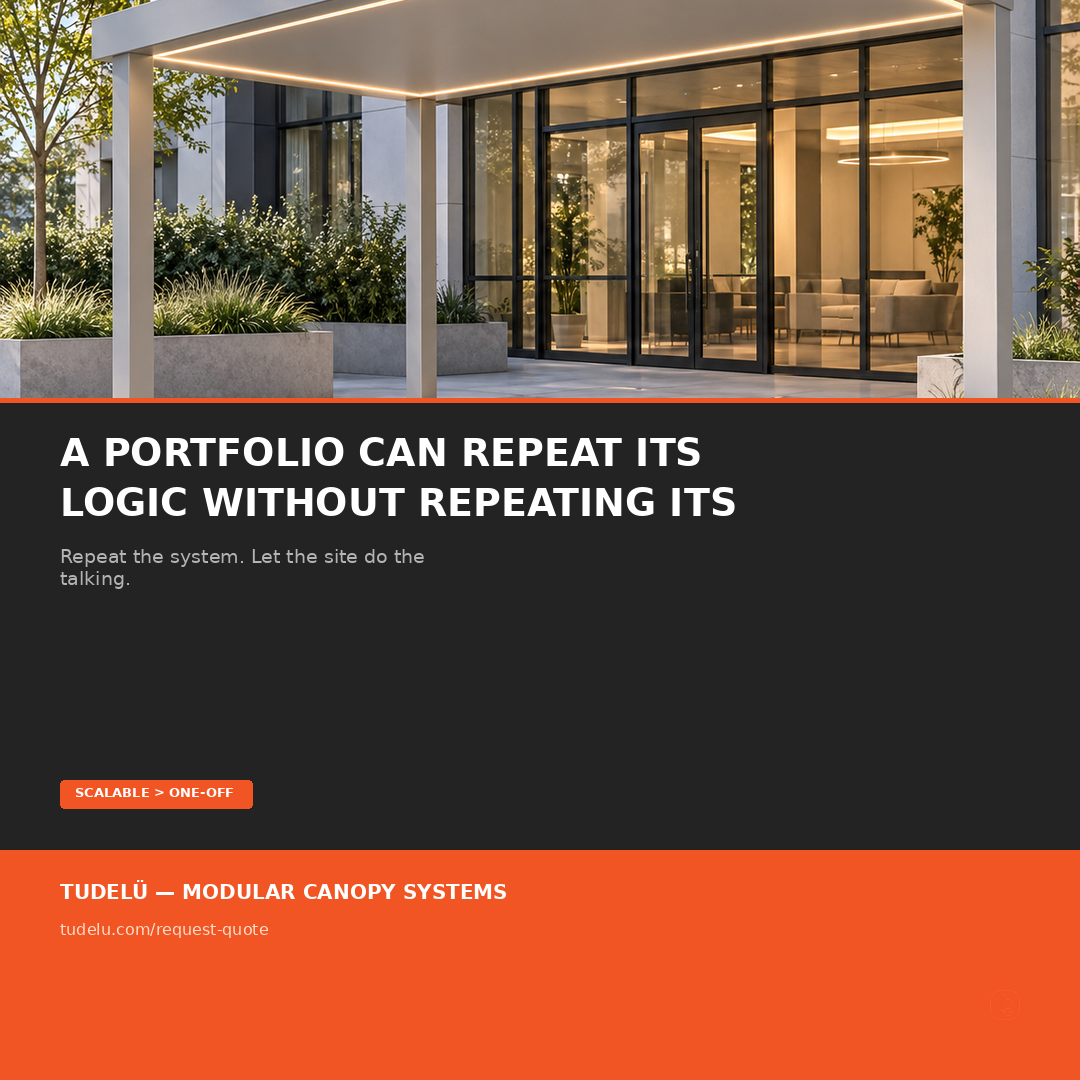
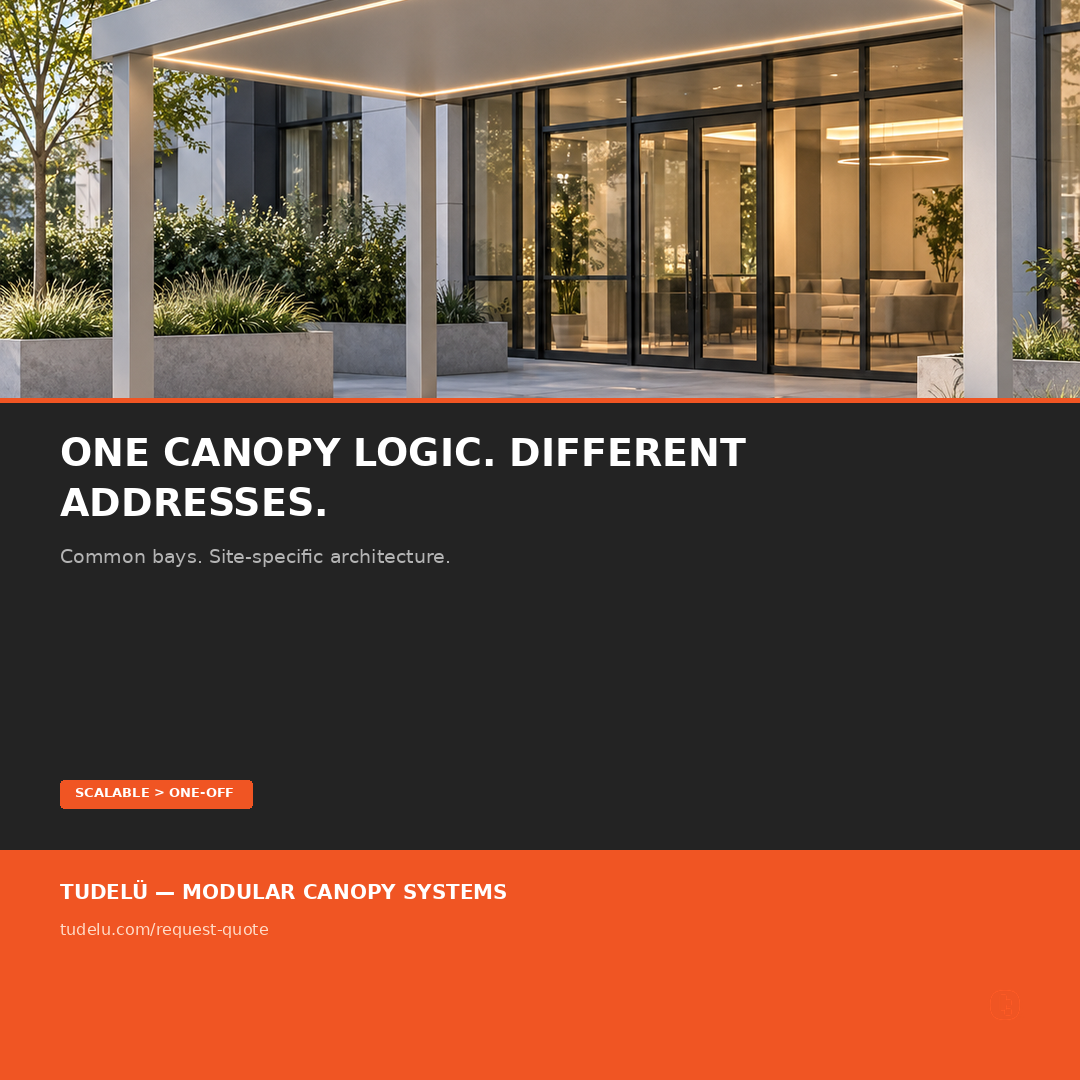
Fix W47 review copy and creative headline

Changed region(s): [[0.0611, 0.3972, 0.7028, 0.55]]

diff --git a/index.html b/index.html
@@ -70,11 +70,11 @@ Explanation: A compact roof over the everyday entry gives shoes, bags and the wa
 
 Shift: Design for the daily route, not the staged photo.
 
-Tudelü is a click-together modular aluminum system with concealed connections and no welding. The continuous mitered fascia contains integrated warm-white LED. Choose matte black, dark bronze, warm white, or natural silver. $60/sqft.</p></div><div class="meta"><div class="actions"><a class="btn approve" data-testid="link-approve-instagram-3" aria-label="Approve Instagram 3" href="mailto:chaim.fischer@tudelu.com?subject=Approve%20%E2%80%94%202026-W47%20Instagram%203&amp;body=Notes%20for%202026-W47%20Instagram%203%3A%0A%0A">Approve</a><a class="btn revise" data-testid="link-revise-instagram-3" aria-label="Revision Instagram 3" href="mailto:chaim.fischer@tudelu.com?subject=Revision%20%E2%80%94%202026-W47%20Instagram%203&amp;body=Notes%20for%202026-W47%20Instagram%203%3A%0A%0A">Revision</a><a class="btn decline" data-testid="link-decline-instagram-3" aria-label="Decline Instagram 3" href="mailto:chaim.fischer@tudelu.com?subject=Decline%20%E2%80%94%202026-W47%20Instagram%203&amp;body=Notes%20for%202026-W47%20Instagram%203%3A%0A%0A">Decline</a></div></div></article><article class="tile" data-testid="card-review-instagram-4"><div class="media"><img loading="lazy" decoding="async" width="1080" height="1080" src="images/instagram/post_04.png" alt="Tudelü canopy content for Instagram 4"/></div><div class="copy"><div class="label">Instagram 4</div><p>Insight: A portfolio can repeat its logic without repeating its look.
+Tudelü is a click-together modular aluminum system with concealed connections and no welding. The continuous mitered fascia contains integrated warm-white LED. Choose matte black, dark bronze, warm white, or natural silver. $60/sqft.</p></div><div class="meta"><div class="actions"><a class="btn approve" data-testid="link-approve-instagram-3" aria-label="Approve Instagram 3" href="mailto:chaim.fischer@tudelu.com?subject=Approve%20%E2%80%94%202026-W47%20Instagram%203&amp;body=Notes%20for%202026-W47%20Instagram%203%3A%0A%0A">Approve</a><a class="btn revise" data-testid="link-revise-instagram-3" aria-label="Revision Instagram 3" href="mailto:chaim.fischer@tudelu.com?subject=Revision%20%E2%80%94%202026-W47%20Instagram%203&amp;body=Notes%20for%202026-W47%20Instagram%203%3A%0A%0A">Revision</a><a class="btn decline" data-testid="link-decline-instagram-3" aria-label="Decline Instagram 3" href="mailto:chaim.fischer@tudelu.com?subject=Decline%20%E2%80%94%202026-W47%20Instagram%203&amp;body=Notes%20for%202026-W47%20Instagram%203%3A%0A%0A">Decline</a></div></div></article><article class="tile" data-testid="card-review-instagram-4"><div class="media"><img loading="lazy" decoding="async" width="1080" height="1080" src="images/instagram/post_04.png" alt="Tudelü canopy content for Instagram 4"/></div><div class="copy"><div class="label">Instagram 4</div><p>Insight: One canopy logic. Different addresses.
 
 Explanation: Common canopy bays make the detail easier to coordinate across properties while brick, glazing and landscape adapt to each address.
 
-Shift: Repeat the system. Let the site do the talking.
+Shift: Common bays. Site-specific architecture.
 
 Tudelü is a click-together modular aluminum system with concealed connections and no welding. The continuous mitered fascia contains integrated warm-white LED. Choose matte black, dark bronze, warm white, or natural silver. $60/sqft.</p></div><div class="meta"><div class="actions"><a class="btn approve" data-testid="link-approve-instagram-4" aria-label="Approve Instagram 4" href="mailto:chaim.fischer@tudelu.com?subject=Approve%20%E2%80%94%202026-W47%20Instagram%204&amp;body=Notes%20for%202026-W47%20Instagram%204%3A%0A%0A">Approve</a><a class="btn revise" data-testid="link-revise-instagram-4" aria-label="Revision Instagram 4" href="mailto:chaim.fischer@tudelu.com?subject=Revision%20%E2%80%94%202026-W47%20Instagram%204&amp;body=Notes%20for%202026-W47%20Instagram%204%3A%0A%0A">Revision</a><a class="btn decline" data-testid="link-decline-instagram-4" aria-label="Decline Instagram 4" href="mailto:chaim.fischer@tudelu.com?subject=Decline%20%E2%80%94%202026-W47%20Instagram%204&amp;body=Notes%20for%202026-W47%20Instagram%204%3A%0A%0A">Decline</a></div></div></article><article class="tile" data-testid="card-review-instagram-5"><div class="media"><img loading="lazy" decoding="async" width="1080" height="1080" src="images/instagram/post_05.png" alt="Tudelü canopy content for Instagram 5"/></div><div class="copy"><div class="label">Instagram 5</div><p>Insight: The best showroom sample explains more than its finish.
 
@@ -193,27 +193,27 @@ Book a 15-minute consult →
 https://tudelu.com/book?utm_source=linkedin&amp;utm_medium=social&amp;utm_campaign=2026-w47_post4&amp;utm_content=consult-15</p></div><div class="meta"><div class="actions"><a class="btn approve" data-testid="link-approve-linkedin-4" aria-label="Approve LinkedIn 4" href="mailto:chaim.fischer@tudelu.com?subject=Approve%20%E2%80%94%202026-W47%20LinkedIn%204&amp;body=Notes%20for%202026-W47%20LinkedIn%204%3A%0A%0A">Approve</a><a class="btn revise" data-testid="link-revise-linkedin-4" aria-label="Revision LinkedIn 4" href="mailto:chaim.fischer@tudelu.com?subject=Revision%20%E2%80%94%202026-W47%20LinkedIn%204&amp;body=Notes%20for%202026-W47%20LinkedIn%204%3A%0A%0A">Revision</a><a class="btn decline" data-testid="link-decline-linkedin-4" aria-label="Decline LinkedIn 4" href="mailto:chaim.fischer@tudelu.com?subject=Decline%20%E2%80%94%202026-W47%20LinkedIn%204&amp;body=Notes%20for%202026-W47%20LinkedIn%204%3A%0A%0A">Decline</a></div></div></article><article class="tile" data-testid="card-review-linkedin-5"><div class="media"><img loading="lazy" decoding="async" width="1376" height="768" src="images/linkedin/li_05.png" alt="Tudelü canopy content for LinkedIn 5"/></div><div class="copy"><div class="label">LinkedIn 5</div><p>Insight: A canopy is part of the daily route, not just the hero shot. Explanation: A clear roofline and integrated light make an entrance dependable without adding visible fixtures. Shift: Make the ordinary arrival feel resolved.
 
 Spec your canopy in 60 seconds →
-https://tudelu.com/spec-your-canopy?utm_source=linkedin&amp;utm_medium=social&amp;utm_campaign=2026-w47_post5&amp;utm_content=spec-60</p></div><div class="meta"><div class="actions"><a class="btn approve" data-testid="link-approve-linkedin-5" aria-label="Approve LinkedIn 5" href="mailto:chaim.fischer@tudelu.com?subject=Approve%20%E2%80%94%202026-W47%20LinkedIn%205&amp;body=Notes%20for%202026-W47%20LinkedIn%205%3A%0A%0A">Approve</a><a class="btn revise" data-testid="link-revise-linkedin-5" aria-label="Revision LinkedIn 5" href="mailto:chaim.fischer@tudelu.com?subject=Revision%20%E2%80%94%202026-W47%20LinkedIn%205&amp;body=Notes%20for%202026-W47%20LinkedIn%205%3A%0A%0A">Revision</a><a class="btn decline" data-testid="link-decline-linkedin-5" aria-label="Decline LinkedIn 5" href="mailto:chaim.fischer@tudelu.com?subject=Decline%20%E2%80%94%202026-W47%20LinkedIn%205&amp;body=Notes%20for%202026-W47%20LinkedIn%205%3A%0A%0A">Decline</a></div></div></article></div></section><section id="facebook"><h2>Facebook <span>5</span></h2><div class="grid"><article class="tile" data-testid="card-review-facebook-1"><div class="media"><img loading="lazy" decoding="async" width="1254" height="1254" src="images/facebook/fb_01.png" alt="Tudelü canopy content for Facebook 1"/></div><div class="copy"><div class="label">Facebook 1</div><p>**Headline:** Your side door deserves the same thought as the front one.
+https://tudelu.com/spec-your-canopy?utm_source=linkedin&amp;utm_medium=social&amp;utm_campaign=2026-w47_post5&amp;utm_content=spec-60</p></div><div class="meta"><div class="actions"><a class="btn approve" data-testid="link-approve-linkedin-5" aria-label="Approve LinkedIn 5" href="mailto:chaim.fischer@tudelu.com?subject=Approve%20%E2%80%94%202026-W47%20LinkedIn%205&amp;body=Notes%20for%202026-W47%20LinkedIn%205%3A%0A%0A">Approve</a><a class="btn revise" data-testid="link-revise-linkedin-5" aria-label="Revision LinkedIn 5" href="mailto:chaim.fischer@tudelu.com?subject=Revision%20%E2%80%94%202026-W47%20LinkedIn%205&amp;body=Notes%20for%202026-W47%20LinkedIn%205%3A%0A%0A">Revision</a><a class="btn decline" data-testid="link-decline-linkedin-5" aria-label="Decline LinkedIn 5" href="mailto:chaim.fischer@tudelu.com?subject=Decline%20%E2%80%94%202026-W47%20LinkedIn%205&amp;body=Notes%20for%202026-W47%20LinkedIn%205%3A%0A%0A">Decline</a></div></div></article></div></section><section id="facebook"><h2>Facebook <span>5</span></h2><div class="grid"><article class="tile" data-testid="card-review-facebook-1"><div class="media"><img loading="lazy" decoding="async" width="1254" height="1254" src="images/facebook/fb_01.png" alt="Tudelü canopy content for Facebook 1"/></div><div class="copy"><div class="label">Facebook 1</div><p>Headline: Your side door deserves the same thought as the front one.
 
 Insight: The everyday entrance is still part of the home. Explanation: A compact canopy gives the garden route a dependable sheltered threshold without crowding the yard. Shift: Design for daily use, not a staged photo.
 
 See if Tudelü fits your home →
-https://tudelu.com/residential?utm_source=facebook_native&amp;utm_medium=social&amp;utm_campaign=2026-w47_post1&amp;utm_content=home-fit</p></div><div class="meta"><div class="actions"><a class="btn approve" data-testid="link-approve-facebook-1" aria-label="Approve Facebook 1" href="mailto:chaim.fischer@tudelu.com?subject=Approve%20%E2%80%94%202026-W47%20Facebook%201&amp;body=Notes%20for%202026-W47%20Facebook%201%3A%0A%0A">Approve</a><a class="btn revise" data-testid="link-revise-facebook-1" aria-label="Revision Facebook 1" href="mailto:chaim.fischer@tudelu.com?subject=Revision%20%E2%80%94%202026-W47%20Facebook%201&amp;body=Notes%20for%202026-W47%20Facebook%201%3A%0A%0A">Revision</a><a class="btn decline" data-testid="link-decline-facebook-1" aria-label="Decline Facebook 1" href="mailto:chaim.fischer@tudelu.com?subject=Decline%20%E2%80%94%202026-W47%20Facebook%201&amp;body=Notes%20for%202026-W47%20Facebook%201%3A%0A%0A">Decline</a></div></div></article><article class="tile" data-testid="card-review-facebook-2"><div class="media"><img loading="lazy" decoding="async" width="1254" height="1254" src="images/facebook/fb_02.png" alt="Tudelü canopy content for Facebook 2"/></div><div class="copy"><div class="label">Facebook 2</div><p>**Headline:** A support detail is easier to trust when it is planned.
+https://tudelu.com/residential?utm_source=facebook_native&amp;utm_medium=social&amp;utm_campaign=2026-w47_post1&amp;utm_content=home-fit</p></div><div class="meta"><div class="actions"><a class="btn approve" data-testid="link-approve-facebook-1" aria-label="Approve Facebook 1" href="mailto:chaim.fischer@tudelu.com?subject=Approve%20%E2%80%94%202026-W47%20Facebook%201&amp;body=Notes%20for%202026-W47%20Facebook%201%3A%0A%0A">Approve</a><a class="btn revise" data-testid="link-revise-facebook-1" aria-label="Revision Facebook 1" href="mailto:chaim.fischer@tudelu.com?subject=Revision%20%E2%80%94%202026-W47%20Facebook%201&amp;body=Notes%20for%202026-W47%20Facebook%201%3A%0A%0A">Revision</a><a class="btn decline" data-testid="link-decline-facebook-1" aria-label="Decline Facebook 1" href="mailto:chaim.fischer@tudelu.com?subject=Decline%20%E2%80%94%202026-W47%20Facebook%201&amp;body=Notes%20for%202026-W47%20Facebook%201%3A%0A%0A">Decline</a></div></div></article><article class="tile" data-testid="card-review-facebook-2"><div class="media"><img loading="lazy" decoding="async" width="1254" height="1254" src="images/facebook/fb_02.png" alt="Tudelü canopy content for Facebook 2"/></div><div class="copy"><div class="label">Facebook 2</div><p>Headline: A support detail is easier to trust when it is planned.
 
 Insight: A wall canopy should not arrive with a stack of improvised brackets. Explanation: One slim rod brace and concealed connections keep the entrance clear. Shift: Resolve the support before installation.
 
 Get a free project quote →
-https://tudelu.com/quote?utm_source=facebook_native&amp;utm_medium=social&amp;utm_campaign=2026-w47_post2&amp;utm_content=quote</p></div><div class="meta"><div class="actions"><a class="btn approve" data-testid="link-approve-facebook-2" aria-label="Approve Facebook 2" href="mailto:chaim.fischer@tudelu.com?subject=Approve%20%E2%80%94%202026-W47%20Facebook%202&amp;body=Notes%20for%202026-W47%20Facebook%202%3A%0A%0A">Approve</a><a class="btn revise" data-testid="link-revise-facebook-2" aria-label="Revision Facebook 2" href="mailto:chaim.fischer@tudelu.com?subject=Revision%20%E2%80%94%202026-W47%20Facebook%202&amp;body=Notes%20for%202026-W47%20Facebook%202%3A%0A%0A">Revision</a><a class="btn decline" data-testid="link-decline-facebook-2" aria-label="Decline Facebook 2" href="mailto:chaim.fischer@tudelu.com?subject=Decline%20%E2%80%94%202026-W47%20Facebook%202&amp;body=Notes%20for%202026-W47%20Facebook%202%3A%0A%0A">Decline</a></div></div></article><article class="tile" data-testid="card-review-facebook-3"><div class="media"><img loading="lazy" decoding="async" width="1254" height="1254" src="images/facebook/fb_03.png" alt="Tudelü canopy content for Facebook 3"/></div><div class="copy"><div class="label">Facebook 3</div><p>**Headline:** More visible parts do not make a canopy more engineered.
+https://tudelu.com/quote?utm_source=facebook_native&amp;utm_medium=social&amp;utm_campaign=2026-w47_post2&amp;utm_content=quote</p></div><div class="meta"><div class="actions"><a class="btn approve" data-testid="link-approve-facebook-2" aria-label="Approve Facebook 2" href="mailto:chaim.fischer@tudelu.com?subject=Approve%20%E2%80%94%202026-W47%20Facebook%202&amp;body=Notes%20for%202026-W47%20Facebook%202%3A%0A%0A">Approve</a><a class="btn revise" data-testid="link-revise-facebook-2" aria-label="Revision Facebook 2" href="mailto:chaim.fischer@tudelu.com?subject=Revision%20%E2%80%94%202026-W47%20Facebook%202&amp;body=Notes%20for%202026-W47%20Facebook%202%3A%0A%0A">Revision</a><a class="btn decline" data-testid="link-decline-facebook-2" aria-label="Decline Facebook 2" href="mailto:chaim.fischer@tudelu.com?subject=Decline%20%E2%80%94%202026-W47%20Facebook%202&amp;body=Notes%20for%202026-W47%20Facebook%202%3A%0A%0A">Decline</a></div></div></article><article class="tile" data-testid="card-review-facebook-3"><div class="media"><img loading="lazy" decoding="async" width="1254" height="1254" src="images/facebook/fb_03.png" alt="Tudelü canopy content for Facebook 3"/></div><div class="copy"><div class="label">Facebook 3</div><p>Headline: More visible parts do not make a canopy more engineered.
 
 Insight: The cleanest connection is often the one you do not see. Explanation: Click-together extrusions keep the hardware concealed and the mitered fascia continuous. Shift: Let the system do the work.
 
 See how it installs →
-https://tudelu.com/install?utm_source=facebook_native&amp;utm_medium=social&amp;utm_campaign=2026-w47_post3&amp;utm_content=how-it-installs</p></div><div class="meta"><div class="actions"><a class="btn approve" data-testid="link-approve-facebook-3" aria-label="Approve Facebook 3" href="mailto:chaim.fischer@tudelu.com?subject=Approve%20%E2%80%94%202026-W47%20Facebook%203&amp;body=Notes%20for%202026-W47%20Facebook%203%3A%0A%0A">Approve</a><a class="btn revise" data-testid="link-revise-facebook-3" aria-label="Revision Facebook 3" href="mailto:chaim.fischer@tudelu.com?subject=Revision%20%E2%80%94%202026-W47%20Facebook%203&amp;body=Notes%20for%202026-W47%20Facebook%203%3A%0A%0A">Revision</a><a class="btn decline" data-testid="link-decline-facebook-3" aria-label="Decline Facebook 3" href="mailto:chaim.fischer@tudelu.com?subject=Decline%20%E2%80%94%202026-W47%20Facebook%203&amp;body=Notes%20for%202026-W47%20Facebook%203%3A%0A%0A">Decline</a></div></div></article><article class="tile" data-testid="card-review-facebook-4"><div class="media"><img loading="lazy" decoding="async" width="1254" height="1254" src="images/facebook/fb_04.png" alt="Tudelü canopy content for Facebook 4"/></div><div class="copy"><div class="label">Facebook 4</div><p>**Headline:** What would your crew do with fewer field decisions?
+https://tudelu.com/install?utm_source=facebook_native&amp;utm_medium=social&amp;utm_campaign=2026-w47_post3&amp;utm_content=how-it-installs</p></div><div class="meta"><div class="actions"><a class="btn approve" data-testid="link-approve-facebook-3" aria-label="Approve Facebook 3" href="mailto:chaim.fischer@tudelu.com?subject=Approve%20%E2%80%94%202026-W47%20Facebook%203&amp;body=Notes%20for%202026-W47%20Facebook%203%3A%0A%0A">Approve</a><a class="btn revise" data-testid="link-revise-facebook-3" aria-label="Revision Facebook 3" href="mailto:chaim.fischer@tudelu.com?subject=Revision%20%E2%80%94%202026-W47%20Facebook%203&amp;body=Notes%20for%202026-W47%20Facebook%203%3A%0A%0A">Revision</a><a class="btn decline" data-testid="link-decline-facebook-3" aria-label="Decline Facebook 3" href="mailto:chaim.fischer@tudelu.com?subject=Decline%20%E2%80%94%202026-W47%20Facebook%203&amp;body=Notes%20for%202026-W47%20Facebook%203%3A%0A%0A">Decline</a></div></div></article><article class="tile" data-testid="card-review-facebook-4"><div class="media"><img loading="lazy" decoding="async" width="1254" height="1254" src="images/facebook/fb_04.png" alt="Tudelü canopy content for Facebook 4"/></div><div class="copy"><div class="label">Facebook 4</div><p>Headline: What would your crew do with fewer field decisions?
 
 Insight: Installation time is better spent checking alignment than inventing joints. Explanation: The modular aluminum system assembles without welding. Shift: Engineer the sequence, then focus on plumb posts and a straight line.
 
 Book a 15-minute consult →
-https://tudelu.com/book?utm_source=facebook_native&amp;utm_medium=social&amp;utm_campaign=2026-w47_post4&amp;utm_content=consult-15</p></div><div class="meta"><div class="actions"><a class="btn approve" data-testid="link-approve-facebook-4" aria-label="Approve Facebook 4" href="mailto:chaim.fischer@tudelu.com?subject=Approve%20%E2%80%94%202026-W47%20Facebook%204&amp;body=Notes%20for%202026-W47%20Facebook%204%3A%0A%0A">Approve</a><a class="btn revise" data-testid="link-revise-facebook-4" aria-label="Revision Facebook 4" href="mailto:chaim.fischer@tudelu.com?subject=Revision%20%E2%80%94%202026-W47%20Facebook%204&amp;body=Notes%20for%202026-W47%20Facebook%204%3A%0A%0A">Revision</a><a class="btn decline" data-testid="link-decline-facebook-4" aria-label="Decline Facebook 4" href="mailto:chaim.fischer@tudelu.com?subject=Decline%20%E2%80%94%202026-W47%20Facebook%204&amp;body=Notes%20for%202026-W47%20Facebook%204%3A%0A%0A">Decline</a></div></div></article><article class="tile" data-testid="card-review-facebook-5"><div class="media"><img loading="lazy" decoding="async" width="1254" height="1254" src="images/facebook/fb_05.png" alt="Tudelü canopy content for Facebook 5"/></div><div class="copy"><div class="label">Facebook 5</div><p>**Headline:** A full-size corner makes the first product conversation clearer.
+https://tudelu.com/book?utm_source=facebook_native&amp;utm_medium=social&amp;utm_campaign=2026-w47_post4&amp;utm_content=consult-15</p></div><div class="meta"><div class="actions"><a class="btn approve" data-testid="link-approve-facebook-4" aria-label="Approve Facebook 4" href="mailto:chaim.fischer@tudelu.com?subject=Approve%20%E2%80%94%202026-W47%20Facebook%204&amp;body=Notes%20for%202026-W47%20Facebook%204%3A%0A%0A">Approve</a><a class="btn revise" data-testid="link-revise-facebook-4" aria-label="Revision Facebook 4" href="mailto:chaim.fischer@tudelu.com?subject=Revision%20%E2%80%94%202026-W47%20Facebook%204&amp;body=Notes%20for%202026-W47%20Facebook%204%3A%0A%0A">Revision</a><a class="btn decline" data-testid="link-decline-facebook-4" aria-label="Decline Facebook 4" href="mailto:chaim.fischer@tudelu.com?subject=Decline%20%E2%80%94%202026-W47%20Facebook%204&amp;body=Notes%20for%202026-W47%20Facebook%204%3A%0A%0A">Decline</a></div></div></article><article class="tile" data-testid="card-review-facebook-5"><div class="media"><img loading="lazy" decoding="async" width="1254" height="1254" src="images/facebook/fb_05.png" alt="Tudelü canopy content for Facebook 5"/></div><div class="copy"><div class="label">Facebook 5</div><p>Headline: A full-size corner makes the first product conversation clearer.
 
 Insight: Buyers can judge what they can see. Explanation: The miter, powder coat and recessed LED channel are easier to compare in a real sample than in a feature list. Shift: Show the system, not a list of exceptions.
 
@@ -248,15 +248,15 @@ Show buyers the miter, matte powder coat and integrated light at full scale. A c
 
 Spec Tudelü for your next project →
 
-https://tudelu.com/spec-your-canopy?utm_source=pinterest&amp;utm_medium=social&amp;utm_campaign=2026-w47_post5&amp;utm_content=spec</p></div><div class="meta"><div class="actions"><a class="btn approve" data-testid="link-approve-pinterest-5" aria-label="Approve Pinterest 5" href="mailto:chaim.fischer@tudelu.com?subject=Approve%20%E2%80%94%202026-W47%20Pinterest%205&amp;body=Notes%20for%202026-W47%20Pinterest%205%3A%0A%0A">Approve</a><a class="btn revise" data-testid="link-revise-pinterest-5" aria-label="Revision Pinterest 5" href="mailto:chaim.fischer@tudelu.com?subject=Revision%20%E2%80%94%202026-W47%20Pinterest%205&amp;body=Notes%20for%202026-W47%20Pinterest%205%3A%0A%0A">Revision</a><a class="btn decline" data-testid="link-decline-pinterest-5" aria-label="Decline Pinterest 5" href="mailto:chaim.fischer@tudelu.com?subject=Decline%20%E2%80%94%202026-W47%20Pinterest%205&amp;body=Notes%20for%202026-W47%20Pinterest%205%3A%0A%0A">Decline</a></div></div></article></div></section><section id="videos"><h2>Short-form video scripts <span>3</span></h2><div class="grid"><article class="tile" data-testid="card-review-video-script-1-—-footage-needed"><div class="media"></div><div class="copy"><div class="label">Video script 1 — footage needed</div><p>**The corner is where the system shows**
+https://tudelu.com/spec-your-canopy?utm_source=pinterest&amp;utm_medium=social&amp;utm_campaign=2026-w47_post5&amp;utm_content=spec</p></div><div class="meta"><div class="actions"><a class="btn approve" data-testid="link-approve-pinterest-5" aria-label="Approve Pinterest 5" href="mailto:chaim.fischer@tudelu.com?subject=Approve%20%E2%80%94%202026-W47%20Pinterest%205&amp;body=Notes%20for%202026-W47%20Pinterest%205%3A%0A%0A">Approve</a><a class="btn revise" data-testid="link-revise-pinterest-5" aria-label="Revision Pinterest 5" href="mailto:chaim.fischer@tudelu.com?subject=Revision%20%E2%80%94%202026-W47%20Pinterest%205&amp;body=Notes%20for%202026-W47%20Pinterest%205%3A%0A%0A">Revision</a><a class="btn decline" data-testid="link-decline-pinterest-5" aria-label="Decline Pinterest 5" href="mailto:chaim.fischer@tudelu.com?subject=Decline%20%E2%80%94%202026-W47%20Pinterest%205&amp;body=Notes%20for%202026-W47%20Pinterest%205%3A%0A%0A">Decline</a></div></div></article></div></section><section id="videos"><h2>Short-form video scripts <span>3</span></h2><div class="grid"><article class="tile" data-testid="card-review-video-script-1-—-footage-needed"><div class="media"></div><div class="copy"><div class="label">Video script 1 — footage needed</div><p>The corner is where the system shows
 
 Length: 8 seconds, vertical 1080x1920. Use real Tudelü footage. Edit beats: 0–2s close detail of the mitered fascia; 2–5s reveal the concealed connection and underside channel; 5–8s hold on the complete installed corner. Suggested voiceover: “A clean corner is not a field trick. It starts with a system designed to fit together.”
 
-Edit status: pending suitable real Tudelü canopy footage.</p></div><div class="meta"><div class="actions"><a class="btn approve" data-testid="link-approve-video-script-1-—-footage-needed" aria-label="Approve Video script 1 — footage needed" href="mailto:chaim.fischer@tudelu.com?subject=Approve%20%E2%80%94%202026-W47%20Video%20script%201%20%E2%80%94%20footage%20needed&amp;body=Notes%20for%202026-W47%20Video%20script%201%20%E2%80%94%20footage%20needed%3A%0A%0A">Approve</a><a class="btn revise" data-testid="link-revise-video-script-1-—-footage-needed" aria-label="Revision Video script 1 — footage needed" href="mailto:chaim.fischer@tudelu.com?subject=Revision%20%E2%80%94%202026-W47%20Video%20script%201%20%E2%80%94%20footage%20needed&amp;body=Notes%20for%202026-W47%20Video%20script%201%20%E2%80%94%20footage%20needed%3A%0A%0A">Revision</a><a class="btn decline" data-testid="link-decline-video-script-1-—-footage-needed" aria-label="Decline Video script 1 — footage needed" href="mailto:chaim.fischer@tudelu.com?subject=Decline%20%E2%80%94%202026-W47%20Video%20script%201%20%E2%80%94%20footage%20needed&amp;body=Notes%20for%202026-W47%20Video%20script%201%20%E2%80%94%20footage%20needed%3A%0A%0A">Decline</a></div></div></article><article class="tile" data-testid="card-review-video-script-2-—-footage-needed"><div class="media"></div><div class="copy"><div class="label">Video script 2 — footage needed</div><p>**Fewer decisions on site**
+Edit status: pending suitable real Tudelü canopy footage.</p></div><div class="meta"><div class="actions"><a class="btn approve" data-testid="link-approve-video-script-1-—-footage-needed" aria-label="Approve Video script 1 — footage needed" href="mailto:chaim.fischer@tudelu.com?subject=Approve%20%E2%80%94%202026-W47%20Video%20script%201%20%E2%80%94%20footage%20needed&amp;body=Notes%20for%202026-W47%20Video%20script%201%20%E2%80%94%20footage%20needed%3A%0A%0A">Approve</a><a class="btn revise" data-testid="link-revise-video-script-1-—-footage-needed" aria-label="Revision Video script 1 — footage needed" href="mailto:chaim.fischer@tudelu.com?subject=Revision%20%E2%80%94%202026-W47%20Video%20script%201%20%E2%80%94%20footage%20needed&amp;body=Notes%20for%202026-W47%20Video%20script%201%20%E2%80%94%20footage%20needed%3A%0A%0A">Revision</a><a class="btn decline" data-testid="link-decline-video-script-1-—-footage-needed" aria-label="Decline Video script 1 — footage needed" href="mailto:chaim.fischer@tudelu.com?subject=Decline%20%E2%80%94%202026-W47%20Video%20script%201%20%E2%80%94%20footage%20needed&amp;body=Notes%20for%202026-W47%20Video%20script%201%20%E2%80%94%20footage%20needed%3A%0A%0A">Decline</a></div></div></article><article class="tile" data-testid="card-review-video-script-2-—-footage-needed"><div class="media"></div><div class="copy"><div class="label">Video script 2 — footage needed</div><p>Fewer decisions on site
 
 Length: 8 seconds, vertical 1080x1920. Use real Tudelü installation footage. Edit beats: 0–2s show the assembled extrusion; 2–5s show an installer checking a plumb post or alignment; 5–8s show the finished straight fascia. Suggested voiceover: “No welding. Fewer decisions at the wall. More time spent getting the line right.”
 
-Edit status: pending suitable real Tudelü canopy footage.</p></div><div class="meta"><div class="actions"><a class="btn approve" data-testid="link-approve-video-script-2-—-footage-needed" aria-label="Approve Video script 2 — footage needed" href="mailto:chaim.fischer@tudelu.com?subject=Approve%20%E2%80%94%202026-W47%20Video%20script%202%20%E2%80%94%20footage%20needed&amp;body=Notes%20for%202026-W47%20Video%20script%202%20%E2%80%94%20footage%20needed%3A%0A%0A">Approve</a><a class="btn revise" data-testid="link-revise-video-script-2-—-footage-needed" aria-label="Revision Video script 2 — footage needed" href="mailto:chaim.fischer@tudelu.com?subject=Revision%20%E2%80%94%202026-W47%20Video%20script%202%20%E2%80%94%20footage%20needed&amp;body=Notes%20for%202026-W47%20Video%20script%202%20%E2%80%94%20footage%20needed%3A%0A%0A">Revision</a><a class="btn decline" data-testid="link-decline-video-script-2-—-footage-needed" aria-label="Decline Video script 2 — footage needed" href="mailto:chaim.fischer@tudelu.com?subject=Decline%20%E2%80%94%202026-W47%20Video%20script%202%20%E2%80%94%20footage%20needed&amp;body=Notes%20for%202026-W47%20Video%20script%202%20%E2%80%94%20footage%20needed%3A%0A%0A">Decline</a></div></div></article><article class="tile" data-testid="card-review-video-script-3-—-footage-needed"><div class="media"></div><div class="copy"><div class="label">Video script 3 — footage needed</div><p>**One system, different arrivals**
+Edit status: pending suitable real Tudelü canopy footage.</p></div><div class="meta"><div class="actions"><a class="btn approve" data-testid="link-approve-video-script-2-—-footage-needed" aria-label="Approve Video script 2 — footage needed" href="mailto:chaim.fischer@tudelu.com?subject=Approve%20%E2%80%94%202026-W47%20Video%20script%202%20%E2%80%94%20footage%20needed&amp;body=Notes%20for%202026-W47%20Video%20script%202%20%E2%80%94%20footage%20needed%3A%0A%0A">Approve</a><a class="btn revise" data-testid="link-revise-video-script-2-—-footage-needed" aria-label="Revision Video script 2 — footage needed" href="mailto:chaim.fischer@tudelu.com?subject=Revision%20%E2%80%94%202026-W47%20Video%20script%202%20%E2%80%94%20footage%20needed&amp;body=Notes%20for%202026-W47%20Video%20script%202%20%E2%80%94%20footage%20needed%3A%0A%0A">Revision</a><a class="btn decline" data-testid="link-decline-video-script-2-—-footage-needed" aria-label="Decline Video script 2 — footage needed" href="mailto:chaim.fischer@tudelu.com?subject=Decline%20%E2%80%94%202026-W47%20Video%20script%202%20%E2%80%94%20footage%20needed&amp;body=Notes%20for%202026-W47%20Video%20script%202%20%E2%80%94%20footage%20needed%3A%0A%0A">Decline</a></div></div></article><article class="tile" data-testid="card-review-video-script-3-—-footage-needed"><div class="media"></div><div class="copy"><div class="label">Video script 3 — footage needed</div><p>One system, different arrivals
 
 Length: 8 seconds, vertical 1080x1920. Use real Tudelü project footage. Edit beats: 0–2s establish the building; 2–5s reveal the canopy and its repeatable bays; 5–8s finish on the integrated warm-white LED or finished entry. Suggested voiceover: “The setting changes. The system stays clear: modular aluminum, concealed connections and integrated light.”
 
@@ -277,7 +277,7 @@ https://tudelu.com/book?utm_source=threads&amp;utm_medium=social&amp;utm_campaig
 Spec your canopy in 60 seconds →
 https://tudelu.com/spec-your-canopy?utm_source=threads&amp;utm_medium=social&amp;utm_campaign=2026-w47_post5&amp;utm_content=spec-60</p></div><div class="meta"><div class="actions"><a class="btn approve" data-testid="link-approve-threads-5" aria-label="Approve Threads 5" href="mailto:chaim.fischer@tudelu.com?subject=Approve%20%E2%80%94%202026-W47%20Threads%205&amp;body=Notes%20for%202026-W47%20Threads%205%3A%0A%0A">Approve</a><a class="btn revise" data-testid="link-revise-threads-5" aria-label="Revision Threads 5" href="mailto:chaim.fischer@tudelu.com?subject=Revision%20%E2%80%94%202026-W47%20Threads%205&amp;body=Notes%20for%202026-W47%20Threads%205%3A%0A%0A">Revision</a><a class="btn decline" data-testid="link-decline-threads-5" aria-label="Decline Threads 5" href="mailto:chaim.fischer@tudelu.com?subject=Decline%20%E2%80%94%202026-W47%20Threads%205&amp;body=Notes%20for%202026-W47%20Threads%205%3A%0A%0A">Decline</a></div></div></article></div></section><section id="gbp"><h2>Google Business Profile <span>1</span></h2><div class="grid"><article class="tile" data-testid="card-review-google-business-profile-1"><div class="media"></div><div class="copy"><div class="label">Google Business Profile 1</div><p>Insight: A canopy is part of the building and the daily route. Explanation: Tudelü modular aluminum extrusions click together without welding, with concealed connections, a continuous mitered fascia and integrated warm-white LED. Choose matte black, dark bronze, warm white or natural silver. $60/sqft. Shift: Resolve the system once; let the setting stay distinctive.
 
-**Call to action:** Learn more
+Call to action: Learn more
 
 Spec your canopy in 60 seconds →
 https://tudelu.com/spec-your-canopy?utm_source=gbp&amp;utm_medium=social&amp;utm_campaign=2026-w47_post1&amp;utm_content=spec-60</p></div><div class="meta"><div class="actions"><a class="btn approve" data-testid="link-approve-google-business-profile-1" aria-label="Approve Google Business Profile 1" href="mailto:chaim.fischer@tudelu.com?subject=Approve%20%E2%80%94%202026-W47%20Google%20Business%20Profile%201&amp;body=Notes%20for%202026-W47%20Google%20Business%20Profile%201%3A%0A%0A">Approve</a><a class="btn revise" data-testid="link-revise-google-business-profile-1" aria-label="Revision Google Business Profile 1" href="mailto:chaim.fischer@tudelu.com?subject=Revision%20%E2%80%94%202026-W47%20Google%20Business%20Profile%201&amp;body=Notes%20for%202026-W47%20Google%20Business%20Profile%201%3A%0A%0A">Revision</a><a class="btn decline" data-testid="link-decline-google-business-profile-1" aria-label="Decline Google Business Profile 1" href="mailto:chaim.fischer@tudelu.com?subject=Decline%20%E2%80%94%202026-W47%20Google%20Business%20Profile%201&amp;body=Notes%20for%202026-W47%20Google%20Business%20Profile%201%3A%0A%0A">Decline</a></div></div></article></div></section></main></body></html>

diff --git a/videos/video_03_script.md b/videos/video_03_script.md
@@ -2,6 +2,6 @@
 
 Status: Edit pending suitable Tudelü canopy footage.
 
-**One system, different arrivals**
+One system, different arrivals
 
 Length: 8 seconds, vertical 1080x1920. Use real Tudelü project footage. Edit beats: 0–2s establish the building; 2–5s reveal the canopy and its repeatable bays; 5–8s finish on the integrated warm-white LED or finished entry. Suggested voiceover: “The setting changes. The system stays clear: modular aluminum, concealed connections and integrated light.”

diff --git a/videos/video_01_script.md b/videos/video_01_script.md
@@ -2,6 +2,6 @@
 
 Status: Edit pending suitable Tudelü canopy footage.
 
-**The corner is where the system shows**
+The corner is where the system shows
 
 Length: 8 seconds, vertical 1080x1920. Use real Tudelü footage. Edit beats: 0–2s close detail of the mitered fascia; 2–5s reveal the concealed connection and underside channel; 5–8s hold on the complete installed corner. Suggested voiceover: “A clean corner is not a field trick. It starts with a system designed to fit together.”

diff --git a/videos/video_02_script.md b/videos/video_02_script.md
@@ -2,6 +2,6 @@
 
 Status: Edit pending suitable Tudelü canopy footage.
 
-**Fewer decisions on site**
+Fewer decisions on site
 
 Length: 8 seconds, vertical 1080x1920. Use real Tudelü installation footage. Edit beats: 0–2s show the assembled extrusion; 2–5s show an installer checking a plumb post or alignment; 5–8s show the finished straight fascia. Suggested voiceover: “No welding. Fewer decisions at the wall. More time spent getting the line right.”
